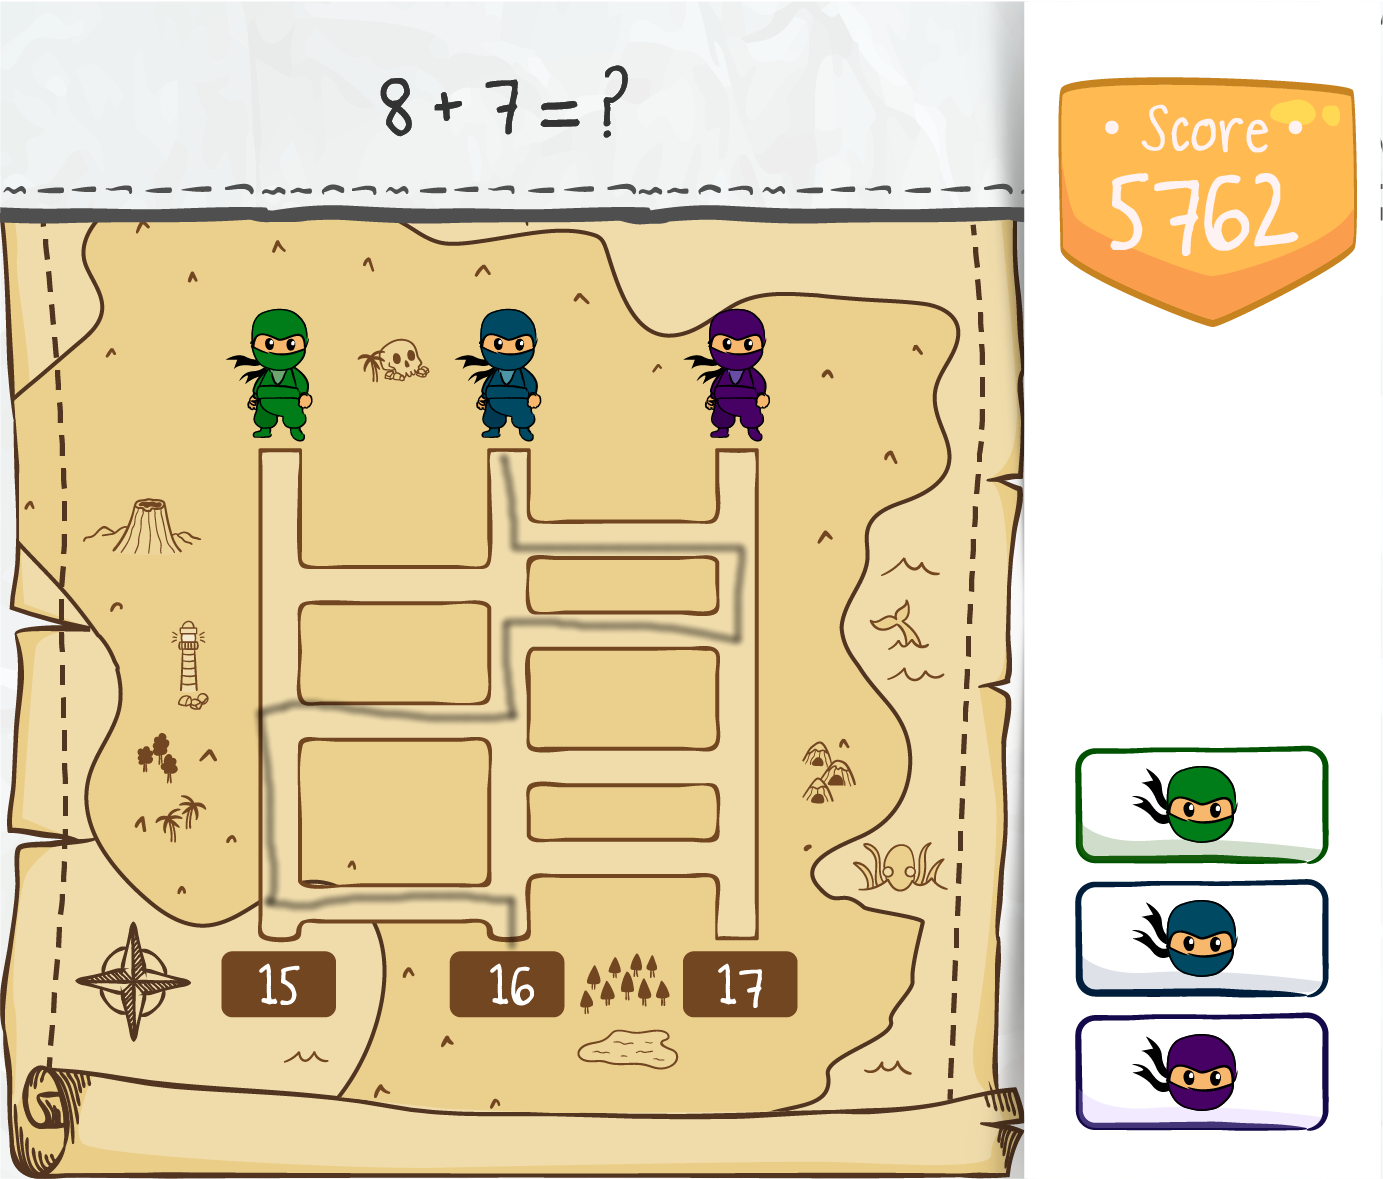
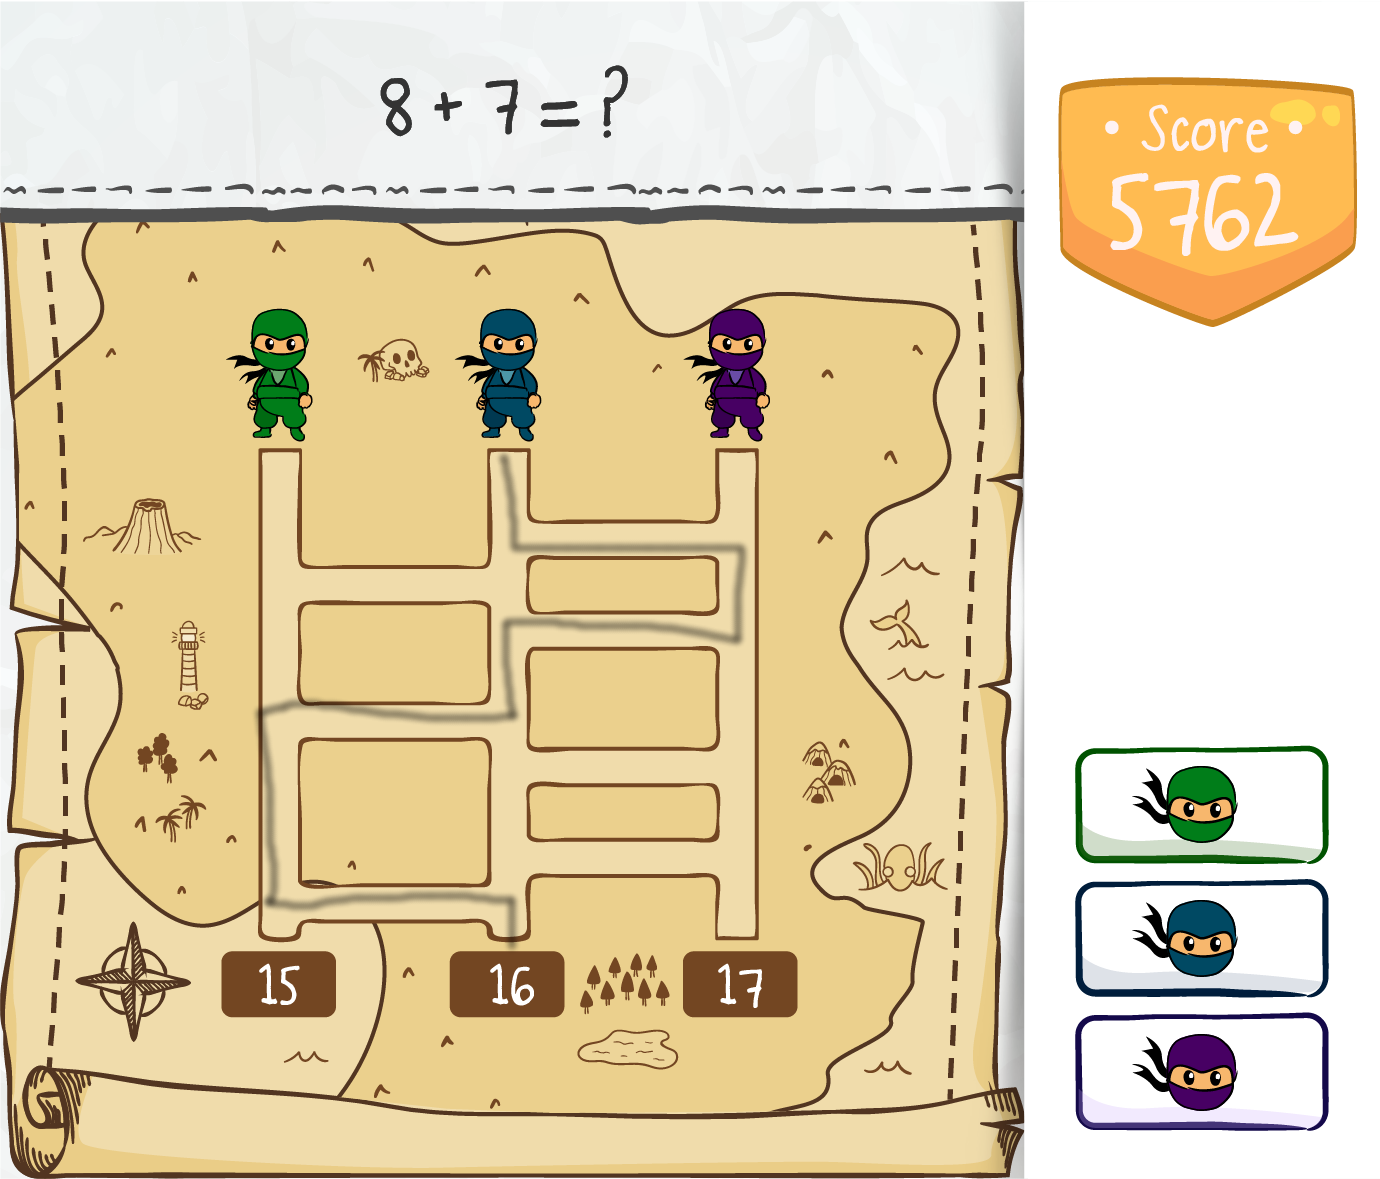
Cleanup resources; add background; remove timer

diff --git a/src/pages/engines/ninjaGhostLeg.vue b/src/pages/engines/ninjaGhostLeg.vue
@@ -13,9 +13,7 @@ export default {
     return {
       optionContainers: [],
       noOfOptionContainer: 3,
-      waitForNext: 0,
-      showTimer: true,
-      ninjaIsMoving: false
+      waitForNext: 0
     };
   },
   methods: {
@@ -28,71 +26,6 @@ export default {
         { id: 'option1BgImg', src: 'statics/game/ninjajump/button1.png' },
         { id: 'option2BgImg', src: 'statics/game/ninjajump/button2.png' },
         { id: 'option3BgImg', src: 'statics/game/ninjajump/button3.png' },
-        { id: 'lavaSprites', src: 'statics/game/ninjajump/lava.png' },
-        {
-          id: 'lavaSprite1',
-          src: 'statics/game/ninjajump/lava-separated/lava-01.png'
-        },
-        {
-          id: 'lavaSprite2',
-          src: 'statics/game/ninjajump/lava-separated/lava-02.png'
-        },
-        {
-          id: 'lavaSprite3',
-          src: 'statics/game/ninjajump/lava-separated/lava-03.png'
-        },
-        {
-          id: 'lavaSprite4',
-          src: 'statics/game/ninjajump/lava-separated/lava-04.png'
-        },
-        {
-          id: 'lavaSprite5',
-          src: 'statics/game/ninjajump/lava-separated/lava-05.png'
-        },
-        {
-          id: 'lavaSprite6',
-          src: 'statics/game/ninjajump/lava-separated/lava-06.png'
-        },
-        {
-          id: 'lavaSprite7',
-          src: 'statics/game/ninjajump/lava-separated/lava-07.png'
-        },
-        {
-          id: 'lavaSprite8',
-          src: 'statics/game/ninjajump/lava-separated/lava-08.png'
-        },
-        {
-          id: 'lavaSprite9',
-          src: 'statics/game/ninjajump/lava-separated/lava-09.png'
-        },
-        {
-          id: 'lavaSprite10',
-          src: 'statics/game/ninjajump/lava-separated/lava-10.png'
-        },
-        {
-          id: 'lavaSprite11',
-          src: 'statics/game/ninjajump/lava-separated/lava-11.png'
-        },
-        {
-          id: 'lavaSprite12',
-          src: 'statics/game/ninjajump/lava-separated/lava-12.png'
-        },
-        {
-          id: 'lavaSprite13',
-          src: 'statics/game/ninjajump/lava-separated/lava-13.png'
-        },
-        {
-          id: 'lavaSprite14',
-          src: 'statics/game/ninjajump/lava-separated/lava-14.png'
-        },
-        {
-          id: 'bgWall',
-          src: 'statics/game/ninjajump/bg-wall.png'
-        },
-        {
-          id: 'bgTexture',
-          src: 'statics/game/ninjajump/bg-texture.png'
-        },
         {
           id: 'platformLeft',
           src: 'statics/game/ninjajump/platform-1.png'
@@ -112,6 +45,10 @@ export default {
         {
           id: 'ninja',
           src: 'statics/game/ninjajump/ninja.png'
+        },
+        {
+          id: 'gameBackground',
+          src: 'statics/game/ninjaghostleg/bg.png'
         }
       ]);
       manifest = manifest.concat(this.getImageFromQuestion());
@@ -168,53 +105,6 @@ export default {
         animations: { show: [0, 0] }
       });
 
-      var lavaSingleSpriteSheet = new this.$createjs.SpriteSheet({
-        framerate: 10,
-        images: [this.queue.getResult('lavaSprites')],
-        frames: { width: 1022, height: 560, spacing: 1, margin: 1 },
-        animations: { flow: [0, 13] }
-      });
-
-      var lavaSpriteSheet = new this.$createjs.SpriteSheet({
-        framerate: 10,
-        images: [
-          this.queue.getResult('lavaSprite1'),
-          this.queue.getResult('lavaSprite2'),
-          this.queue.getResult('lavaSprite3'),
-          this.queue.getResult('lavaSprite4'),
-          this.queue.getResult('lavaSprite5'),
-          this.queue.getResult('lavaSprite6'),
-          this.queue.getResult('lavaSprite7'),
-          this.queue.getResult('lavaSprite8'),
-          this.queue.getResult('lavaSprite9'),
-          this.queue.getResult('lavaSprite10'),
-          this.queue.getResult('lavaSprite11'),
-          this.queue.getResult('lavaSprite12'),
-          this.queue.getResult('lavaSprite13'),
-          this.queue.getResult('lavaSprite14')
-        ],
-        frames: { width: 1024, height: 560 },
-        animations: { flow: [0, 13] }
-      });
-
-      var bgWallSpriteSheet = new this.$createjs.SpriteSheet({
-        framerate: 10,
-        images: [this.queue.getResult('bgWall')],
-        frames: { width: 1024, height: 1668 },
-        animations: { show: [0, 0] }
-      });
-
-      var bgTextureSpriteSheet = new this.$createjs.SpriteSheet({
-        framerate: 10,
-        images: [this.queue.getResult('bgTexture')],
-        frames: { width: 1024, height: 1668 },
-        animations: { show: [0, 0] }
-      });
-
-      this.lava = new this.$createjs.Sprite(lavaSpriteSheet, 'float');
-      this.bgWall = new this.$createjs.Sprite(bgWallSpriteSheet, 'show');
-      this.bgTexture = new this.$createjs.Sprite(bgTextureSpriteSheet, 'show');
-
       this.platformLeft = new this.$createjs.Sprite(
         this.platformLeftSpriteSheet,
         'platformLeft'
@@ -260,11 +150,9 @@ export default {
     },
     restart() {
       this.ninjaIsDead = false;
-      this.ninjaIsMoving = false;
       if (this.answerBoxLeft) this.answerBoxLeft.visible = true;
       if (this.answerBoxMiddle) this.answerBoxMiddle.visible = true;
       if (this.answerBoxRight) this.answerBoxRight.visible = true;
-      this.startTimer();
       this.scene.removeAllChildren();
 
       this.ninja.removeAllEventListeners();
@@ -288,10 +176,6 @@ export default {
         this.defaultCanvasWidth / 3 - 50,
         this.defaultCanvasHeight - 250
       );
-
-      this.lava.setTransform(0, 850);
-      this.bgWall.setTransform(0, 0);
-      this.bgTexture.setTransform(0, 0);
 
       this.ninja.setTransform(
         this.defaultCanvasWidth / 3,
@@ -322,9 +206,6 @@ export default {
       this.ninja.gotoAndPlay('preJump');
 
       this.scene.addChild(
-        this.bgTexture,
-        this.lava,
-        this.bgWall,
         this.platformLeft,
         this.platformMiddle,
         this.platformRight,
@@ -437,7 +318,6 @@ export default {
           this.answerBoxRight.visible = true;
 
           this.nextQuestion();
-          this.ninjaIsMoving = false;
         });
       }
     },
@@ -551,7 +431,6 @@ export default {
       _container.addEventListener('click', event => {
         if (this.gameReady && this.userInteraction) {
           this.userInteraction = false;
-          this.ninjaIsMoving = true;
           this.jumpToPlatform(
             index,
             this.noOfLifeRemained <= 1 && !event.target.parent.correct
@@ -638,7 +517,6 @@ export default {
     },
     tick(event) {
       var deltaS = event.delta / 1000;
-      if (!this.ninjaIsMoving) this.updateTimer();
       this.stage.update(event);
     },
     showAnswerArea() {
